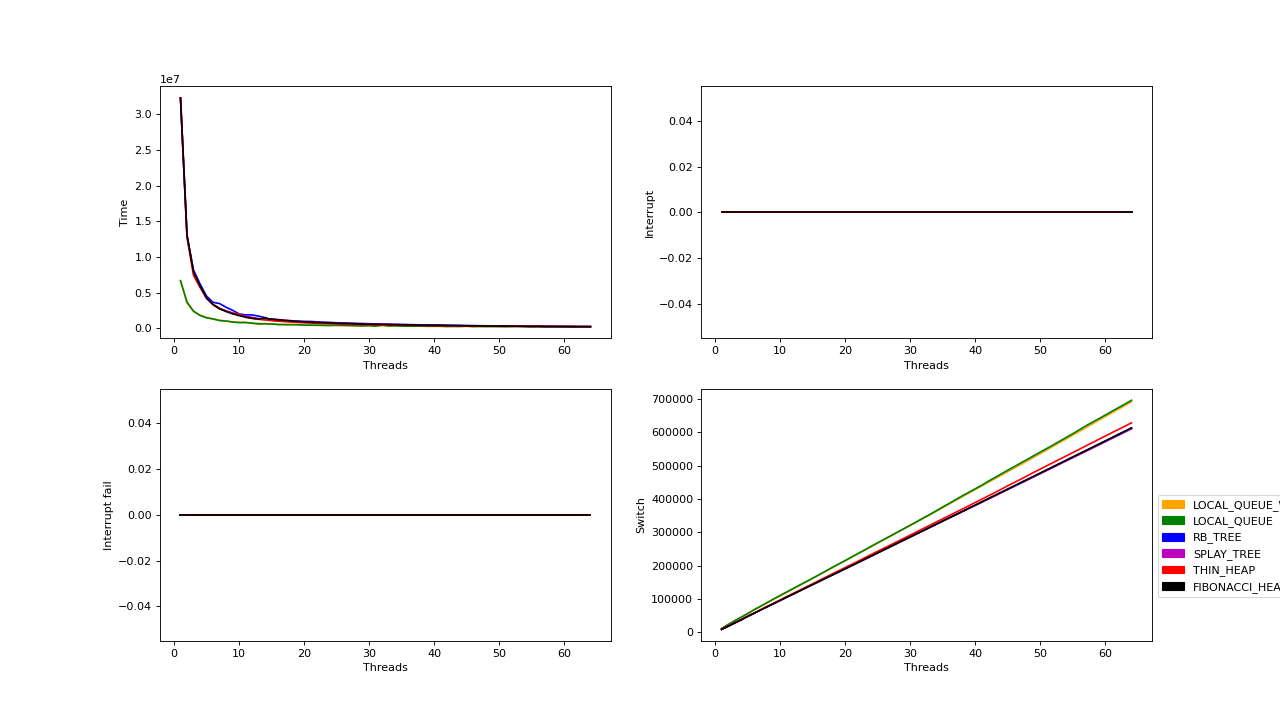
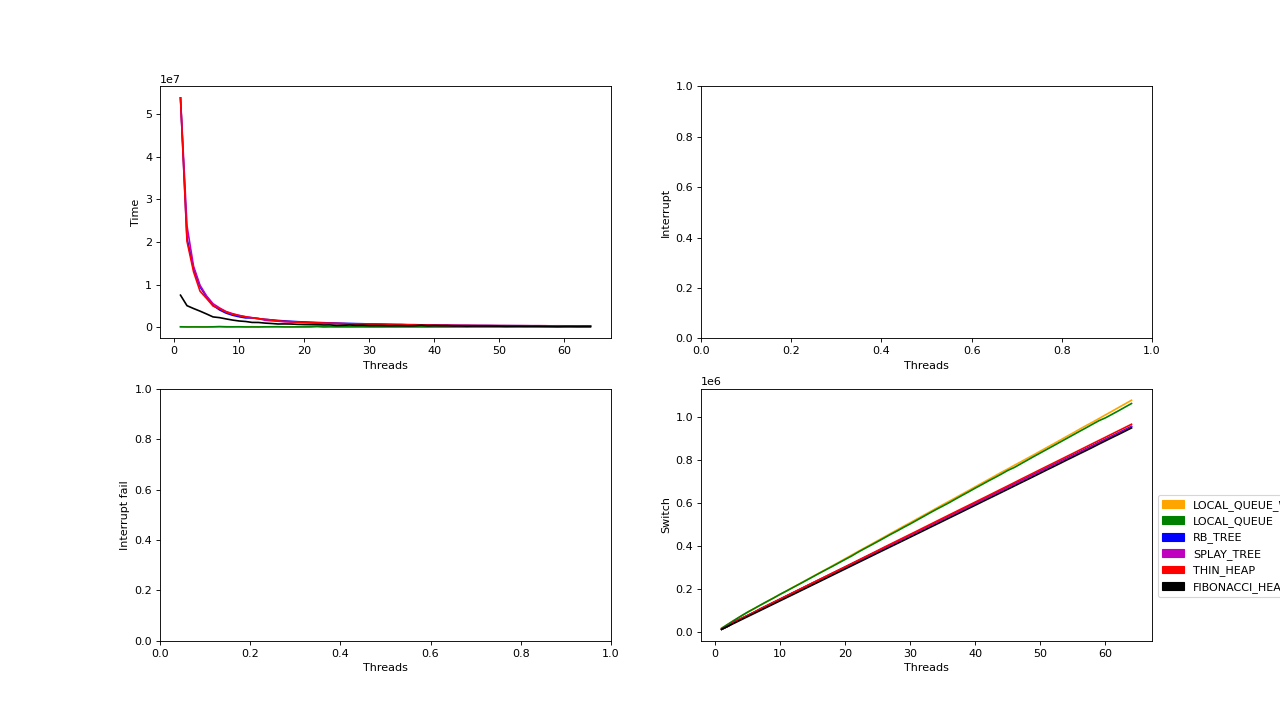
fix

diff --git a/tests/tree_benchmark.c b/tests/tree_benchmark.c
@@ -13,7 +13,7 @@ static void internal_routine()
     sum++;
 
     // Work emulation
-    sleep_for(5000);
+    sleep_for(1000);
 
     __atomic_fetch_add(&atom, 1, __ATOMIC_SEQ_CST);
     sum++;
@@ -22,7 +22,7 @@ static void internal_routine()
 
     __atomic_fetch_add(&atom, 1, __ATOMIC_SEQ_CST);
     sum++;
-    usleep(5000);
+    sleep_for(10000);
 
     __atomic_fetch_add(&atom, 1, __ATOMIC_SEQ_CST);
     sum++;
@@ -33,7 +33,7 @@ static void internal_routine()
     sum++;
     __atomic_fetch_add(&atom, 1, __ATOMIC_SEQ_CST);
     sum++;
-    usleep(5000);
+    sleep_for(1000);
     yield();
     __atomic_fetch_add(&atom, 1, __ATOMIC_SEQ_CST);
     sum++;

diff --git a/script.py b/script.py
@@ -267,10 +267,6 @@ for interrupt_flag in interrupt_flags:
                 c = get_color(names.index(kind))
                 ax1.plot(data['thread'], data['time'],
                          color=c, label=name)
-                ax2.plot(data['thread'], data['interrupt'],
-                         color=c, label=name)
-                ax3.plot(data['thread'], data['interrupt_fail'],
-                         color=c, label=name)
                 ax4.plot(data['thread'], data['switch'],
                          color=c, label=name)
 

diff --git a/tests/tree_benchmark_without_sleep.c b/tests/tree_benchmark_without_sleep.c
@@ -20,7 +20,7 @@ static void internal_routine()
     sum++;
 
     // FOR TEST
-    usleep(5000);
+    usleep(3000);
 
     __atomic_fetch_add(&atom, 1, __ATOMIC_SEQ_CST);
     sum++;
@@ -33,7 +33,7 @@ static void internal_routine()
     sum++;
 
     // FOR TEST
-    usleep(5000);
+    usleep(1000);
 
     __atomic_fetch_add(&atom, 1, __ATOMIC_SEQ_CST);
     sum++;

diff --git a/tests/timeout_scheduler.c b/tests/timeout_scheduler.c
@@ -7,7 +7,7 @@ static void func(void *args)
     volatile int i = 5;
     while (i > 0)
     {
-        usleep(5000);
+        sleep_for(3000);
         --i;
     }
 }

diff --git a/tests/sleep.c b/tests/sleep.c
@@ -4,8 +4,7 @@
 
 static void func(void *args)
 {
-    usleep(5000);
-    sleep_for(5000);
+    sleep_for(2000);
 }
 
 static void test()

diff --git a/tests/test_utils.h b/tests/test_utils.h
@@ -10,7 +10,7 @@
 #include <structures/list.h>
 
 #ifndef TEST_LEVEL
-#define TEST_LEVEL 18
+#define TEST_LEVEL 20
 #endif
 
 #if RB_TREE
